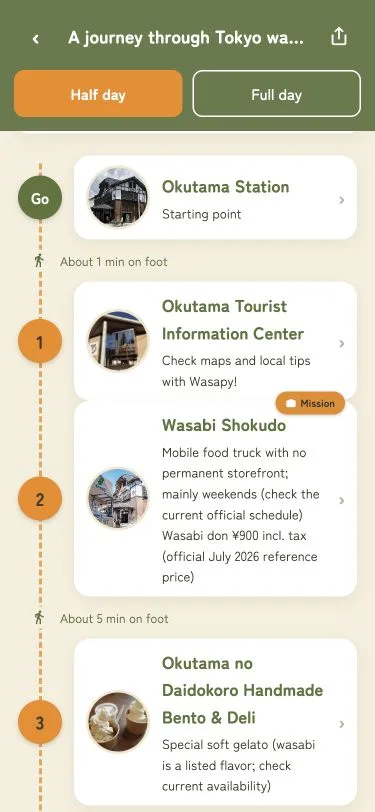
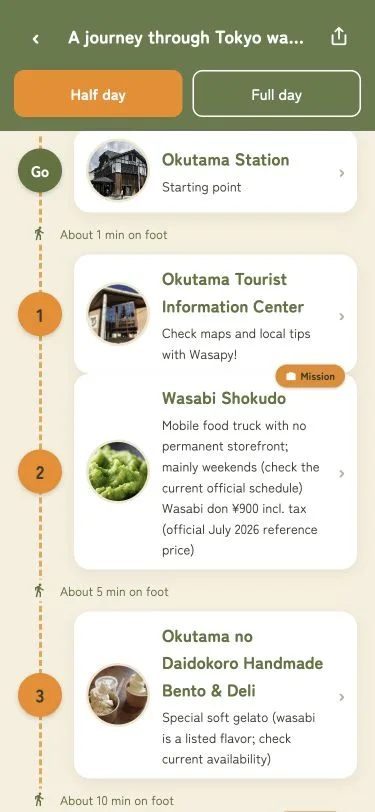
fix: correct mobile venue presentation

diff --git a/src/features/netlify-parity/factual-presentation.ts b/src/features/netlify-parity/factual-presentation.ts
@@ -426,7 +426,7 @@ export const demoJourneys: JourneyPresentation[] = [
       'zh-TW': [{ number: '01.', title: '為什麼是山葵？', body: '清澈冰冷的水孕育出香氣與辛味。' }, { number: '02.', title: '誰在製作？', body: '職人的照料與地方智慧守護著田地和味道。' }, { number: '03.', title: '傳承的技術', body: '適合這片土地的方法，一代一代地傳下來。' }, { number: '04.', title: '當前的課題', body: '環境變化與接班人不足，讓傳承面臨挑戰。' }, { number: '05.', title: '你能做什麼', body: '在這裡品嚐與造訪，可以支持下一代。' }],
     },
     routeVariants: [
-      { id: 'half-day', durationMinutes: 150, imageAssetId: 'figmaRouteMap', steps: [{ spotId: 'okutama-station', imageAssetId: 'station' }, { spotId: 'okutama-tourism-office', imageAssetId: 'tourismOfficeRoute' }, { spotId: 'wasabi-kitchen', imageAssetId: 'wasabiKitchen' }, { spotId: 'okutama-kitchen', imageAssetId: 'wasabiGelato' }, { spotId: 'hikawa-valley', imageAssetId: 'valley' }, { spotId: 'oku-hikawa-shrine', imageAssetId: 'okuHikawaShrine' }, { spotId: 'port-okutama', imageAssetId: 'port' }] },
+      { id: 'half-day', durationMinutes: 150, imageAssetId: 'figmaRouteMap', steps: [{ spotId: 'okutama-station', imageAssetId: 'station' }, { spotId: 'okutama-tourism-office', imageAssetId: 'tourismOfficeRoute' }, { spotId: 'wasabi-kitchen', imageAssetId: 'wasabiHero' }, { spotId: 'okutama-kitchen', imageAssetId: 'wasabiGelato' }, { spotId: 'hikawa-valley', imageAssetId: 'valley' }, { spotId: 'oku-hikawa-shrine', imageAssetId: 'okuHikawaShrine' }, { spotId: 'port-okutama', imageAssetId: 'port' }] },
       { id: 'full-day', durationMinutes: 420, imageAssetId: 'figmaRouteMap', steps: [{ spotId: 'mitake-station', imageAssetId: 'station' }, { spotId: 'wasabi-experience', imageAssetId: 'wasabiExperience' }, { spotId: 'okutama-station', imageAssetId: 'station' }, { spotId: 'akabeko', imageAssetId: 'akabekoYamame' }, { spotId: 'yamashiroya', imageAssetId: 'yamashiroyaGoods' }, { spotId: 'port-okutama', imageAssetId: 'portDetail' }] },
     ],
   },
@@ -478,7 +478,7 @@ export const demoSpots: Record<string, SpotPresentation> = {
     en: { name: yamashiroyaName.en, lead: yamashiroyaLead.en, description: `Reference information based on ${yamashiroyaPlace.nameEn}’s official shop guide.` },
     'zh-TW': { name: yamashiroyaName['zh-TW'], lead: yamashiroyaLead['zh-TW'], description: `依據${yamashiroyaPlace.nameJa}官方店鋪資訊整理的參考內容。` },
   }),
-  'wasabi-kitchen': spot('wasabi-kitchen', 'wasabiKitchen', ['station', 'wasabiGelato'], {
+  'wasabi-kitchen': spot('wasabi-kitchen', 'wasabiHero', ['eatIllustration', 'originIllustration'], {
     ja: { name: wasabiKitchenPlace.nameJa, lead: wasabiKitchenVenueModel.ja, description: wasabiKitchenStoryDescription.ja },
     en: { name: wasabiKitchenPlace.nameEn, lead: wasabiKitchenVenueModel.en, description: wasabiKitchenStoryDescription.en },
     'zh-TW': { name: '山葵食堂', lead: wasabiKitchenVenueModel['zh-TW'], description: wasabiKitchenStoryDescription['zh-TW'] },
@@ -646,14 +646,14 @@ export const referenceSpotDetails: Partial<Record<string, ReferenceSpotDetail>> 
       { fieldId: 'price_availability', icon: 'information', label: localized('メニュー・価格', 'Menu & price', '菜單與價格'), value: wasabiKitchenPriceAvailability },
       { fieldId: 'schedule_conflict', icon: 'information', label: localized('日程の確認', 'Schedule check', '行程確認'), value: wasabiKitchenScheduleConflict },
       { fieldId: 'official_current_url', icon: 'information', label: localized('公式情報', 'Official information', '官方資訊'), value: localized(wasabiKitchenPlace.source.url ?? '', wasabiKitchenPlace.source.url ?? '', wasabiKitchenPlace.source.url ?? '') },
-      { fieldId: 'schedule_url', icon: 'information', label: localized('最新の出店予定', 'Current schedule', '最新出攤行程'), value: localized(wasabiKitchenPlace.mobileVenue.currentScheduleSource.url ?? '', wasabiKitchenPlace.mobileVenue.currentScheduleSource.url ?? '', wasabiKitchenPlace.mobileVenue.currentScheduleSource.url ?? '') },
+      { fieldId: 'schedule_url', icon: 'information', label: localized('最新の出店予定', 'Current schedule', '最新出攤行程'), value: localized(wasabiKitchenPlace.mobileVenue.scheduleDirectorySource.url ?? '', wasabiKitchenPlace.mobileVenue.scheduleDirectorySource.url ?? '', wasabiKitchenPlace.mobileVenue.scheduleDirectorySource.url ?? '') },
       { fieldId: 'verification_note', icon: 'information', label: localized('確認状態', 'Verification', '確認狀態'), value: localized('公式情報を2026年8月29日に取得。日程・出店先・時間・価格・提供状況は訪問前に再確認してください。', 'Official information retrieved Aug 29, 2026. Recheck dates, location, hours, price, and availability before visiting.', '官方資訊於 2026 年 8 月 29 日取得。造訪前請再次確認日期、地點、時間、價格與供應狀況。') },
     ],
     guide: {
       title: localized('訪問前に出店予定を確認', 'Check the schedule before visiting', '造訪前請確認出攤行程'),
       body: localized('固定店舗はありません。公式のお知らせ・Instagramで最新の営業日と出店先を確認してください。', 'There is no permanent storefront. Check official announcements or Instagram for the latest operating dates and locations.', '沒有固定店面。請透過官方公告或 Instagram 確認最新營業日期與出攤地點。'),
       action: localized('最新の公式予定を確認する', 'Check the current official schedule', '查看最新官方行程'),
-      url: wasabiKitchenPlace.mobileVenue.currentScheduleSource.url,
+      url: wasabiKitchenPlace.mobileVenue.scheduleDirectorySource.url,
     },
     caution: [
       localized('・営業日・時間・出店先は変更される場合があります。天候や売り切れで変更・終了する場合もあります。', '• Dates, hours, and locations can change. Weather or sell-out may alter or end service.', '・營業日期、時間與地點可能變更，亦可能因天候或售罄而調整或提早結束。'),
@@ -1165,7 +1165,7 @@ export const storySpotGroups: Record<string, {
         description: yamashiroyaStoryDescription,
       },
       {
-        referenceId: 'wasabi-kitchen', spotId: 'wasabi-kitchen', imageAssetId: 'wasabiKitchen', badgeColor: '#E98A1C',
+        referenceId: 'wasabi-kitchen', spotId: 'wasabi-kitchen', imageAssetId: 'wasabiHero', badgeColor: '#E98A1C',
         badge: { ja: 'FOOD TRUCK', en: 'FOOD TRUCK', 'zh-TW': '行動餐車' },
         description: wasabiKitchenStoryDescription,
       },

diff --git a/src/lib/data-verification-ledger.ts b/src/lib/data-verification-ledger.ts
@@ -450,13 +450,13 @@ export function buildRepositoryLedgerClaims(): LedgerClaim[] {
     if (fieldId === 'schedule_guidance' && place.locationKind === 'mobile') {
       return defaultFact(
         `${place.mobileVenue.operatingPattern} / ${place.mobileVenue.scheduleVariability.join(', ')}`,
-        place.mobileVenue.currentScheduleSource,
+        place.mobileVenue.datedScheduleSource,
       );
     }
     if (fieldId === 'schedule_url' && place.locationKind === 'mobile') {
       return defaultFact(
-        place.mobileVenue.currentScheduleSource.url,
-        place.mobileVenue.currentScheduleSource,
+        place.mobileVenue.scheduleDirectorySource.url,
+        place.mobileVenue.scheduleDirectorySource,
       );
     }
     if (fieldId === 'schedule_conflict' && place.locationKind === 'mobile') {
@@ -464,7 +464,7 @@ export function buildRepositoryLedgerClaims(): LedgerClaim[] {
       if (!conflict) return undefined;
       return {
         value: conflict.statements.map((statement) => statement.value).join(' | '),
-        source: place.mobileVenue.currentScheduleSource,
+        source: place.mobileVenue.datedScheduleSource,
         verification: conflict.verificationStatus,
       };
     }
@@ -593,7 +593,7 @@ export function buildRepositoryLedgerClaims(): LedgerClaim[] {
         ['venue_model', 'Venue model', 'mobile_food_truck / no_permanent_storefront', false] as const,
         ['operating_area', 'Primary operating area', place.mobileVenue.primaryOperatingAreaJa, true] as const,
         ['schedule_guidance', 'Operating schedule guidance', `${place.mobileVenue.operatingPattern} / ${place.mobileVenue.scheduleVariability.join(', ')}`, true] as const,
-        ['schedule_url', 'Current schedule URL', place.mobileVenue.currentScheduleSource.url, true] as const,
+        ['schedule_url', 'Latest schedule directory URL', place.mobileVenue.scheduleDirectorySource.url, true] as const,
         ...(place.mobileVenue.scheduleConflict ? [[
           'schedule_conflict',
           'Conflicting first-party event dates',
@@ -614,13 +614,14 @@ export function buildRepositoryLedgerClaims(): LedgerClaim[] {
         ? place.coordinateSource
         : fieldId === 'address' && place.addressSource
           ? place.addressSource
-          : place.locationKind === 'mobile' && (
-            fieldId === 'schedule_guidance'
-            || fieldId === 'schedule_url'
-            || fieldId === 'schedule_conflict'
-          )
-            ? place.mobileVenue.currentScheduleSource
-          : place.source;
+          : place.locationKind === 'mobile' && fieldId === 'schedule_url'
+            ? place.mobileVenue.scheduleDirectorySource
+            : place.locationKind === 'mobile' && (
+              fieldId === 'schedule_guidance'
+              || fieldId === 'schedule_conflict'
+            )
+              ? place.mobileVenue.datedScheduleSource
+              : place.source;
       const verification = fieldId === 'schedule_conflict'
         && place.locationKind === 'mobile'
         && place.mobileVenue.scheduleConflict

diff --git a/e2e/current-mvp-smoke.spec.ts b/e2e/current-mvp-smoke.spec.ts
@@ -571,8 +571,9 @@ test('keeps Wasabi Shokudo mobile and time-sensitive in every locale (#324)', as
     await expect(spot).toContainText(expected.conflict);
     await expect(spot.getByRole('link', { name: expected.schedule })).toHaveAttribute(
       'href',
-      'https://tokyowasabi.com/information/2751/260728/',
+      'https://tokyowasabi.com/category/information/',
     );
+    await expect(spot.locator('.spot-hero > img')).toHaveAttribute('src', /wasabi_photo/);
     await expect(spot.locator('.info-row .k').filter({ hasText: new RegExp(`^${expected.addressLabel}$`) })).toHaveCount(0);
     await expect(spot).not.toContainText(/土日のみ|Weekends only|僅週末營業|平日はあかべこ|Akabeko is recommended|平日建議前往 AKABEKO|¥900〜|From ¥900|¥900 起/);
     await expectNoHorizontalOverflow(page);
@@ -580,6 +581,7 @@ test('keeps Wasabi Shokudo mobile and time-sensitive in every locale (#324)', as
     await page.goto('/route?candidateId=demo-okutama-wasabi');
     const route = page.locator('[data-screen="route"][data-screen-active="true"]');
     const routeCard = route.locator('[data-spot-id="wasabi-kitchen"]');
+    await expect(routeCard.locator('img')).toHaveAttribute('src', /wasabi_photo/);
     await expect(routeCard).toContainText(expected.schedule);
     await expect(routeCard).toContainText(expected.priceDate);
     await expect(routeCard).not.toContainText(/徒歩 約 1 分|About 1 min on foot|步行約 1 分鐘|土日のみ|Weekends only|僅週末營業|平日はあかべこ|Akabeko is recommended|平日建議前往 AKABEKO|¥900〜|From ¥900|¥900 起/);
@@ -588,6 +590,7 @@ test('keeps Wasabi Shokudo mobile and time-sensitive in every locale (#324)', as
     await page.goto('/story/wasabi-okutama?candidateId=demo-okutama-wasabi');
     const story = page.locator('[data-screen="story"][data-screen-active="true"]');
     const storyCard = story.locator('[data-spot-id="wasabi-kitchen"]');
+    await expect(storyCard.locator('img')).toHaveAttribute('src', /wasabi_photo/);
     await expect(storyCard).toContainText(expected.locale === 'zh-TW' ? '行動餐車' : 'FOOD TRUCK');
     await expect(storyCard).toContainText(expected.schedule);
     await expectNoHorizontalOverflow(page);

diff --git a/src/data/data-verification-evidence-manifest.ts b/src/data/data-verification-evidence-manifest.ts
@@ -529,10 +529,9 @@ export const DATA_VERIFICATION_EVIDENCE_MANIFEST: DataVerificationEvidenceManife
       reason: 'The Story venue-model claim traces to the TOKYO WASABI page that prohibits unauthorized reproduction; no official-site capture is committed.',
     },
     {
-      omissionId: 'wasabi-kitchen-current-schedule-source-rights-restricted',
+      omissionId: 'wasabi-kitchen-august-schedule-source-rights-restricted',
       claimIds: [
         'spot:wasabi-kitchen:schedule_guidance',
-        'spot:wasabi-kitchen:schedule_url',
         'spot:wasabi-kitchen:schedule_conflict',
         'place:wasabi-kitchen:schedule_conflict:source:august-schedule-event-dates',
       ],
@@ -540,7 +539,16 @@ export const DATA_VERIFICATION_EVIDENCE_MANIFEST: DataVerificationEvidenceManife
       kind: 'source',
       sourceUrl: 'https://tokyowasabi.com/information/2751/260728/',
       recordedAt: '2026-08-29',
-      reason: 'TOKYO WASABI prohibits unauthorized reproduction and direct image linking; the current schedule and calendar were checked without copying or rehosting the page, calendar image, or photographs.',
+      reason: 'TOKYO WASABI prohibits unauthorized reproduction and direct image linking; the dated August 2026 schedule and calendar were retained as provenance without copying or rehosting the page, calendar image, or photographs.',
+    },
+    {
+      omissionId: 'wasabi-kitchen-schedule-directory-source-rights-restricted',
+      claimIds: ['spot:wasabi-kitchen:schedule_url'],
+      entityId: 'wasabi-kitchen',
+      kind: 'source',
+      sourceUrl: 'https://tokyowasabi.com/category/information/',
+      recordedAt: '2026-08-29',
+      reason: 'TOKYO WASABI prohibits unauthorized reproduction and direct image linking; the durable official announcements directory is linked for the latest schedule without copying or rehosting its page thumbnails.',
     },
     {
       omissionId: 'wasabi-kitchen-route-schedule-source-rights-restricted',

diff --git a/src/features/netlify-parity/content.test.ts b/src/features/netlify-parity/content.test.ts
@@ -332,6 +332,9 @@ describe('Netlify parity presentation content', () => {
     const storyReference = storySpotGroups['demo-okutama-wasabi'].nearby.find(
       (reference) => reference.spotId === 'wasabi-kitchen',
     );
+    const routePresentation = demoJourneys.find((journey) => journey.id === 'demo-okutama-wasabi')
+      ?.routeVariants.find((variant) => variant.id === 'half-day')
+      ?.steps.find((step) => step.spotId === 'wasabi-kitchen');
 
     expect(place).toMatchObject({ locationKind: 'mobile', type: 'food-truck' });
     expect(detail).toBeDefined();
@@ -351,7 +354,25 @@ describe('Netlify parity presentation content', () => {
       'official_current_url',
     ]));
     expect(detail.information.map((row) => row.fieldId)).not.toContain('address');
-    expect(detail.guide?.url).toBe(place.mobileVenue.currentScheduleSource.url);
+    expect(detail.guide?.url).toBe('https://tokyowasabi.com/category/information/');
+    expect(place.mobileVenue.scheduleDirectorySource.url).toBe(
+      'https://tokyowasabi.com/category/information/',
+    );
+    expect(place.mobileVenue.datedScheduleSource.url).toBe(
+      'https://tokyowasabi.com/information/2751/260728/',
+    );
+    expect(demoSpots['wasabi-kitchen']).toMatchObject({
+      imageAssetId: 'wasabiHero',
+      thumbnailAssetIds: ['eatIllustration', 'originIllustration'],
+    });
+    expect(routePresentation?.imageAssetId).toBe('wasabiHero');
+    expect(storyReference.imageAssetId).toBe('wasabiHero');
+    expect([
+      demoSpots['wasabi-kitchen'].imageAssetId,
+      ...demoSpots['wasabi-kitchen'].thumbnailAssetIds,
+      routePresentation?.imageAssetId,
+      storyReference.imageAssetId,
+    ]).not.toContain('wasabiKitchen');
     expect(routeStep).not.toHaveProperty('walk');
     expect(routeStep).not.toHaveProperty('note');
 

diff --git a/src/data/seed-places.ts b/src/data/seed-places.ts
@@ -164,7 +164,17 @@ const TOKYO_WASABI_FOOD_TRUCK_SOURCE = {
   originalId: 'tokyo-wasabi-foodtruck',
 };
 
-const TOKYO_WASABI_CURRENT_SCHEDULE_SOURCE = {
+const TOKYO_WASABI_SCHEDULE_DIRECTORY_SOURCE = {
+  name: 'TOKYO WASABI（お知らせ）',
+  url: 'https://tokyowasabi.com/category/information/',
+  license: '© TOKYO WASABI / 無断転載不可（リンク参照のみ・ソース画像保存なし）',
+  sourceType: 'official_web' as const,
+  retrievedAt: '2026-08-29',
+  verificationStatus: 'needs_confirmation' as const,
+  originalId: 'tokyo-wasabi-information-index',
+};
+
+const TOKYO_WASABI_AUGUST_SCHEDULE_SOURCE = {
   name: 'TOKYO WASABI（2026年8月 わさび食堂営業日）',
   url: 'https://tokyowasabi.com/information/2751/260728/',
   license: '© TOKYO WASABI / 無断転載不可（リンク参照のみ・ソース画像保存なし）',
@@ -420,14 +430,15 @@ export const PLACES: Place[] = [
       primaryOperatingAreaJa: 'JR青梅線「奥多摩駅」前を中心',
       operatingPattern: 'mainly-weekends',
       scheduleVariability: ['published-schedule', 'weather', 'sell-out'],
-      currentScheduleSource: TOKYO_WASABI_CURRENT_SCHEDULE_SOURCE,
+      scheduleDirectorySource: TOKYO_WASABI_SCHEDULE_DIRECTORY_SOURCE,
+      datedScheduleSource: TOKYO_WASABI_AUGUST_SCHEDULE_SOURCE,
       scheduleConflict: {
         verificationStatus: 'conflict',
         statements: [
           {
             id: 'august-schedule-event-dates',
             value: '2026-08-07〜2026-08-09',
-            source: TOKYO_WASABI_CURRENT_SCHEDULE_SOURCE,
+            source: TOKYO_WASABI_AUGUST_SCHEDULE_SOURCE,
           },
           {
             id: 'hitoshi-event-dates',

diff --git a/src/lib/data-verification-ledger.test.ts b/src/lib/data-verification-ledger.test.ts
@@ -940,6 +940,12 @@ describe('repository data verification ledger (#333)', () => {
 
   it('maps mobile Route guidance to canonical source-backed facts (#324)', () => {
     const claims = buildRepositoryLedgerClaims();
+    const scheduleDirectory = claims.find(
+      (row) => row.claimId === 'place:wasabi-kitchen:schedule_url',
+    );
+    const datedConflictStatement = claims.find(
+      (row) => row.claimId === 'place:wasabi-kitchen:schedule_conflict:source:august-schedule-event-dates',
+    );
     const guidance = claims.find(
       (row) => row.claimId === 'route:okutama-wasabi-journey:half-day:step:wasabi-kitchen:guidance:ja',
     );
@@ -953,6 +959,16 @@ describe('repository data verification ledger (#333)', () => {
       (row) => row.claimId === 'route:okutama-wasabi-journey:half-day:step:wasabi-kitchen:factual:venue-model',
     );
 
+    expect(scheduleDirectory).toMatchObject({
+      canonicalValue: 'https://tokyowasabi.com/category/information/',
+      primarySourceUrl: 'https://tokyowasabi.com/category/information/',
+      verification: 'needs_confirmation',
+    });
+    expect(datedConflictStatement).toMatchObject({
+      canonicalValue: '2026-08-07〜2026-08-09',
+      primarySourceUrl: 'https://tokyowasabi.com/information/2751/260728/',
+      verification: 'conflict',
+    });
     expect(guidance?.timeSensitive).toBe(true);
     expect(weekendOperation).toMatchObject({
       canonicalValue: expect.stringContaining('mainly-weekends'),

diff --git a/src/features/netlify-parity/content.ts b/src/features/netlify-parity/content.ts
@@ -37,7 +37,6 @@ import openGraphImage from '../../assets/netlify-parity/og.png';
 import portCafe from '../../assets/netlify-parity/port_cafe.jpg';
 import port from '../../assets/netlify-parity/port.jpg';
 import portDetail from '../../assets/netlify-parity/port2.jpg';
-import wasabiKitchen from '../../assets/netlify-parity/shokudo_new.jpg';
 import wasabiHero from '../../assets/netlify-parity/wasabi_photo.jpg';
 import wasapy from '../../assets/netlify-parity/wasapy.jpg';
 import welcomeCta from '../../assets/netlify-parity/welcome_cta.png';
@@ -272,7 +271,6 @@ export const referenceAssetFiles = {
   tourismOfficeExterior: '../../assets/netlify-parity/okutama-tourism-office-exterior.png',
   tourismOfficeRoute: '../../assets/netlify-parity/okutama-tourism-office-route.png',
   okuHikawaShrine: '../../assets/netlify-parity/oku-hikawa-shrine.png',
-  wasabiKitchen: '../../assets/netlify-parity/shokudo_new.jpg',
   okutamaKitchen: '../../assets/netlify-parity/daidokoro_new.jpg',
   okutamaKitchenDetail: '../../assets/netlify-parity/daidokoro2.jpg',
   wasabiGelato: '../../assets/netlify-parity/gelato.jpg',
@@ -322,7 +320,6 @@ export const referenceAssets: Record<ReferenceAssetId, string> = {
   tourismOfficeExterior,
   tourismOfficeRoute,
   okuHikawaShrine,
-  wasabiKitchen,
   okutamaKitchen,
   okutamaKitchenDetail,
   wasabiGelato,

diff --git a/src/data/model.ts b/src/data/model.ts
@@ -236,12 +236,14 @@ export interface PlaceMobileVenue {
   noFixedStorefront: true;
   /** Broad source-published operating area; never a substitute address. */
   primaryOperatingAreaJa: string;
-  /** Stable qualitative pattern only; exact dates belong to the current schedule source. */
+  /** Stable qualitative pattern only; exact dates belong to dated schedule evidence. */
   operatingPattern: 'mainly-weekends';
   /** Conditions that make a published schedule non-guaranteed. */
   scheduleVariability: Array<'published-schedule' | 'weather' | 'sell-out'>;
-  /** First-party destination for the currently published operating schedule. */
-  currentScheduleSource: DataSource;
+  /** Durable first-party directory that leads visitors to the latest schedule post. */
+  scheduleDirectorySource: DataSource;
+  /** Dated first-party schedule post used as observed operational provenance. */
+  datedScheduleSource: DataSource;
   /** Explicit unresolved schedule statements from first-party sources. */
   scheduleConflict?: {
     verificationStatus: 'conflict';

diff --git a/src/lib/data-verification-evidence.test.ts b/src/lib/data-verification-evidence.test.ts
@@ -576,7 +576,8 @@ describe('data verification evidence manifest (#334)', () => {
     ]));
     for (const [omissionId, sourceUrl] of [
       ['wasabi-kitchen-foodtruck-source-rights-restricted', 'https://tokyowasabi.com/foodtruck/'],
-      ['wasabi-kitchen-current-schedule-source-rights-restricted', 'https://tokyowasabi.com/information/2751/260728/'],
+      ['wasabi-kitchen-august-schedule-source-rights-restricted', 'https://tokyowasabi.com/information/2751/260728/'],
+      ['wasabi-kitchen-schedule-directory-source-rights-restricted', 'https://tokyowasabi.com/category/information/'],
       ['wasabi-kitchen-wasabi-don-source-rights-restricted', 'https://tokyowasabi.com/wasabi-don/'],
       ['wasabi-kitchen-hitoshi-event-source-rights-restricted', 'https://tokyowasabi.com/hitoshi/2573/fussa-tanabata-challenge/'],
     ] as const) {

diff --git a/src/data/seed.test.ts b/src/data/seed.test.ts
@@ -411,7 +411,11 @@ describe('seed data contract (#2)', () => {
         primaryOperatingAreaJa: 'JR青梅線「奥多摩駅」前を中心',
         operatingPattern: 'mainly-weekends',
         scheduleVariability: ['published-schedule', 'weather', 'sell-out'],
-        currentScheduleSource: {
+        scheduleDirectorySource: {
+          url: 'https://tokyowasabi.com/category/information/',
+          retrievedAt: '2026-08-29',
+        },
+        datedScheduleSource: {
           url: 'https://tokyowasabi.com/information/2751/260728/',
           sourceUpdatedAt: '2026-07-28',
           retrievedAt: '2026-08-29',

diff --git a/src/pages/SpotPage.tsx b/src/pages/SpotPage.tsx
@@ -279,7 +279,8 @@ export function SpotPage() {
     ...(place.coordinateSource ? [{ source: place.coordinateSource, origin: place.origin }] : []),
     ...(place.locationKind === 'mobile'
       ? [
-          { source: place.mobileVenue.currentScheduleSource, origin: place.origin },
+          { source: place.mobileVenue.scheduleDirectorySource, origin: place.origin },
+          { source: place.mobileVenue.datedScheduleSource, origin: place.origin },
           ...(place.visitorInformation?.menuListings ?? []).map((listing) => ({
             source: listing.source,
             origin: place.origin,
